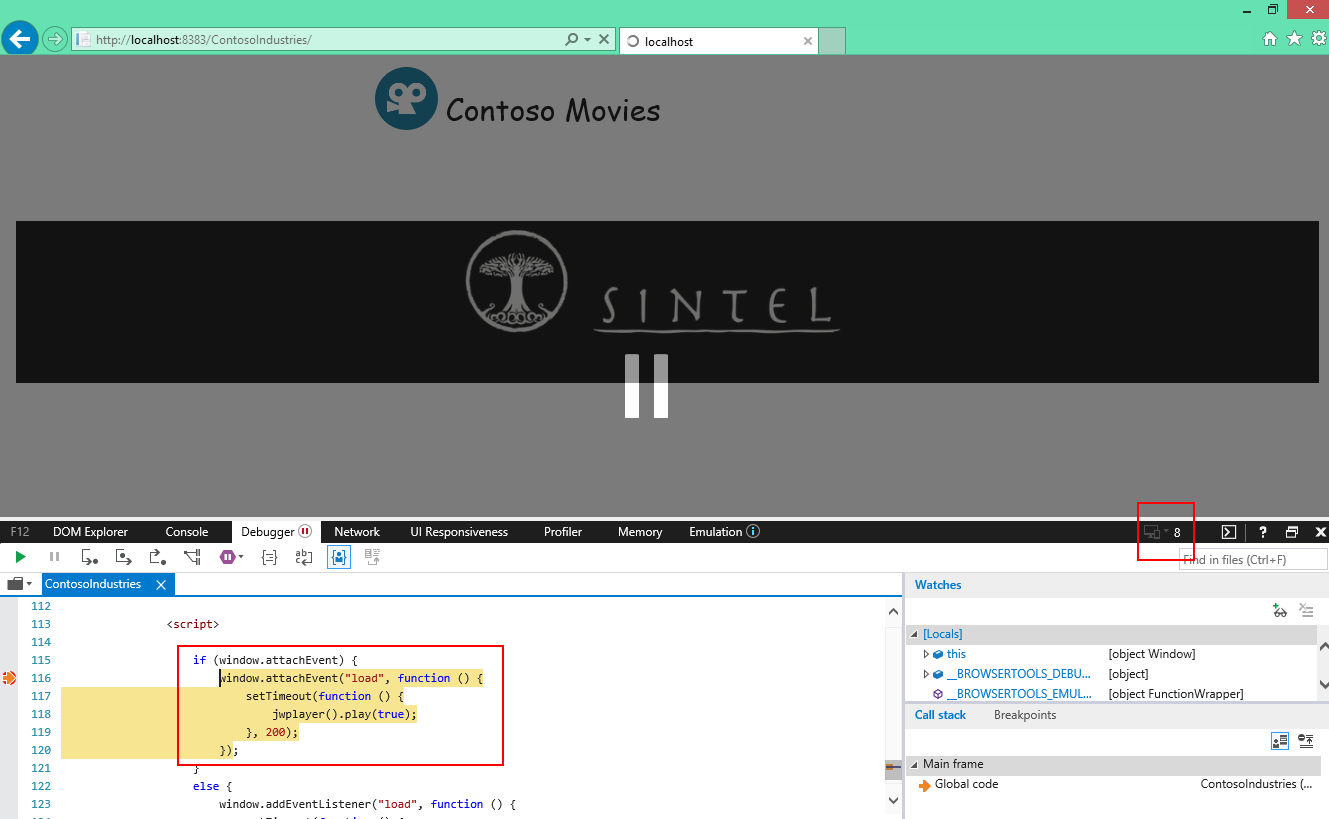
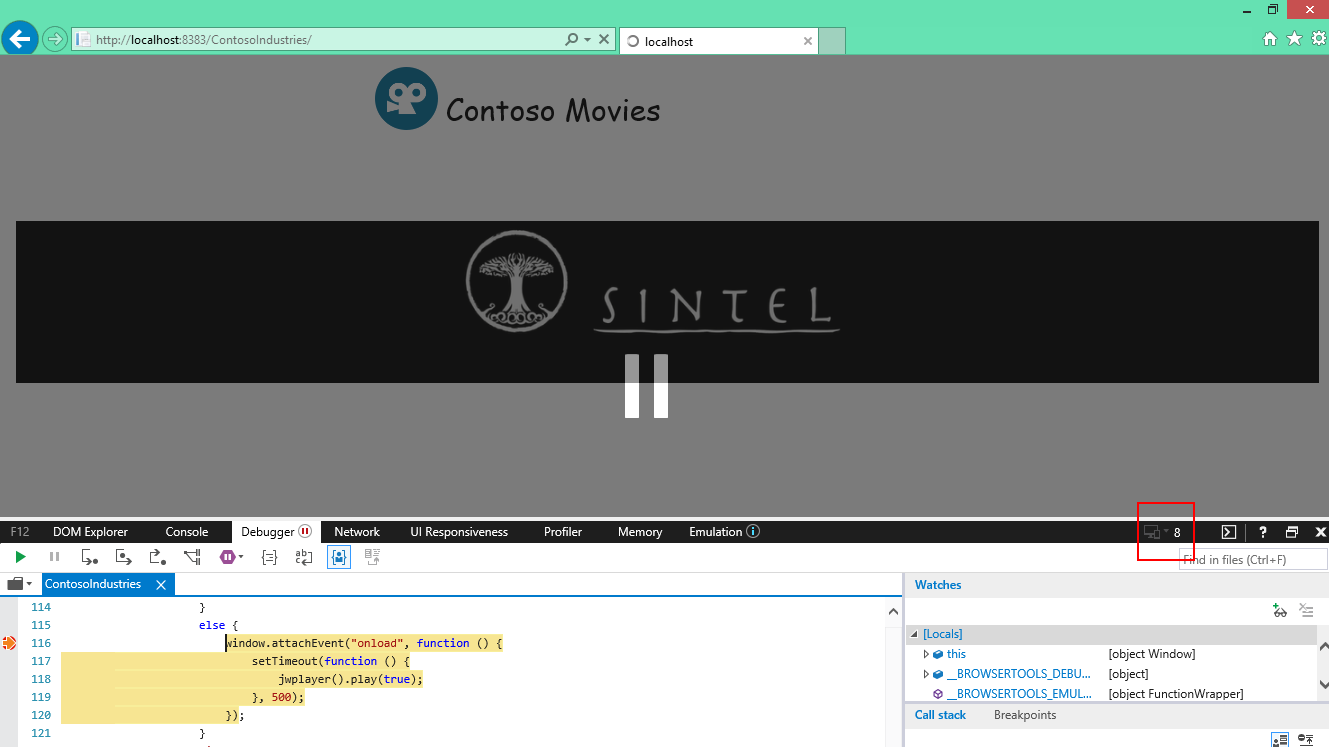
Revisão de texto e atualização da imagem de execução no ie9

Changed region(s): [[0.0, 0.6158, 1.0, 1.0], [0.0, 0.2463, 1.0, 0.5542], [0.0, 0.0, 1.0, 0.1847]]

diff --git a/update/code/end/ContosoIndustries/public_html/index.html b/update/code/end/ContosoIndustries/public_html/index.html
@@ -98,15 +98,15 @@
                 </div>
 
                 <script>
-                    if (window.attachEvent) {
-                        window.attachEvent("onload", function () {
+                    if (window.addEventListener) {
+                        window.addEventListener("load", function () {
                             setTimeout(function () {
                                 jwplayer().play(true);
                             }, 500);
                         });
                     }
                     else {
-                        window.addEventListener("load", function () {
+                        window.attachEvent("onload", function () {
                             setTimeout(function () {
                                 jwplayer().play(true);
                             }, 500);

diff --git a/update/README.md b/update/README.md
@@ -1,8 +1,8 @@
 Atualizando seu site e corrigindo problemas
 ===========================================
-Quando desenvolvemos para a Web Moderna, é inevitável que alguns recursos e propriedades que desejamos utilizar não funcionem em browsers antigos. Para contornar este problema, temos que adotar formas de atender a browsers antigos priorizando a funcionalidade. Neste caso importa para o usuário conseguir usar a funcionalidade.
+Quando desenvolvemos para a Web Moderna, é inevitável que alguns recursos e propriedades que desejamos utilizar não funcionem em browsers antigos. Para contornar este problema, temos que adotar formas de atender a esses browsers priorizando a funcionalidade. Neste caso importa para o usuário conseguir usar a funcionalidade.
 
-Neste contexto, existem algumas propriedades que você pode abrir mão e recursos que você pode substituir por outros que permitem ainda assim que seu site funcione. E a essa estratégia da-se o nome de *Graceful Degradation*. 
+Neste contexto, existem algumas propriedades que você pode abrir mão e recursos que você pode substituir por outros que permitem ainda assim que seu site funcione. E a essa estratégia dá-se o nome de *Graceful Degradation*. 
 
 Neste minicurso veremos como atualizar nosso site para suportar browsers antigos e ainda estar aderente a Web Moderna.
 
@@ -14,9 +14,11 @@ Este minicurso inclui:
 1. [Propriedades CSS3](#Task5)
 1. [Elementos HTML5](#Task6)
 
-Neste minicurso iremos usar ténicas vistas nos minicursos anteriores, como o de [Feature Detection](../feature-detection) e [Prefixos CSS](../css-prefix) para corrigir problemas que identificamos ao [testar nosso site em diferentes browsers](../testing).
+Neste minicurso iremos usar técnicas vistas nos minicursos anteriores, como o de [Feature Detection](../feature-detection) e [Prefixos CSS](../css-prefix) para corrigir problemas que identificamos ao [testar nosso site em diferentes browsers](../testing).
 
-Para esta tarefa iremos usar a Ferramenta do Desenvolvedor (F12) do Internet Explorer para emular versões anteriores do IE, como o IE8. Seguem os passos para isso:
+Para tanto, sugere-se baixar a máquina virtual contendo o Internet Explorer que iremos utilizar, no caso o IE8 (acessar site [https://dev.modern.ie/tools/vms/windows/](https://dev.modern.ie/tools/vms/windows/)). Para ver como, verifique novamente nosso minicurso [de como testar nosso site em diferentes browsers](../testing).
+
+Mas podemos também usar a Ferramenta do Desenvolvedor (F12) do Internet Explorer para emular versões anteriores do IE, como o IE8. Seguem os passos para isso:
 
 1. Abrir o projeto [Contoso Industries](code/begin) no **NetBeans**
 1. Executar o projeto e abrir a página inicial no Internet Explroer.
@@ -27,41 +29,37 @@ Para esta tarefa iremos usar a Ferramenta do Desenvolvedor (F12) do Internet Exp
 
 	_Mudando o Document Mode para IE8_
 
-1. O site será recarregado no emulando o IE8. 
+1. O site será recarregado pelo browser emulando o IE8. 
 
 	> Não feche a Ferramenta do Desenvolvedor. Ao fazê-lo, essa configuração será desfeita e o site volatrá a ser exibido no Document Mode padrão.
 
-Outra opção ainda é baixar uma máquina virtual Windows contendo o IE8. Para ver como, verifique novamente nosso minicurso [de como testar nosso site em diferentes browsers](../testing).
+> Nas versões mais recentes do IE11, mesmo usando emulação para IE8, alguns erros e limitações são contornados pelo browser, o que pode prejudicar nosso trabalho.
 
 <p name="Task1" />
 #### Recursos Javascript ####
 Primeiramente vamos procurar problemas relativos ao Javascript e HTML5 que não são suportados pelo IE8.
 
-Ao executarmos a página inicial, já iremos nos deparar com um primeiro problema de visualização no IE8: o uso do 
+Ao executarmos a página inicial, já iremos nos deparar com um primeiro problema de visualização no IE8: o uso da função `attachEvent`. 
 
-> A função attachEvent era usada para definir código a ser executado quando ocorrer um determinado evento. O attachEvent, tornou-se obsoleto e foi totalmente removido do IE11. Além disso ele não existe em nenhum dos browsers modernos, como Microsoft Edge e Google Chrome.  As you can see, the error surfaces now that the app is running in Edge.
-
-Após o passo 1, se executarmos nosso site iremos observar que ocorre um erro Javascript (visualizado através da ferramenta do desenvolvedor F12) relacionado com o uso da função `attachEvent`:
+> A função attachEvent era usada para definir código a ser executado quando ocorria um determinado evento. O attachEvent, tornou-se obsoleto e foi totalmente removido do IE11. Além disso ele não existe em nenhum dos browsers modernos, como Microsoft Edge e Google Chrome.  
 
 ![Erro usando função attachEvent](./images/update_attacheevent_error.png)
 
-> **Nota 1:** Nas versões mais recentes do IE11, mesmo usando emulação para IE8, esse erro é contornado pelo browser.
-
-> **Nota 2:** Esse é um exemplo clássico de problema Javascript quando estamos atualizando sites. A função `attachEvent` foi substituida pela função `addEventListener` nas novas versões do Javascript. Mas é muito comum encontrar o `attachEvent` nas páginas Web antigas ou que foram desenvolvidas para versões anteriores do Internet Explorer. Porém, se usamos um browser moderno ou a nova versão do IE11, o código Javascript simplesmente falha ao tentar executar a função `attachEvent`.
+> Esse é um exemplo clássico de problema Javascript quando estamos atualizando sites. A função `attachEvent` foi substituida pela função `addEventListener` nas novas versões do Javascript. Mas é muito comum encontrar o `attachEvent` nas páginas Web antigas ou que foram desenvolvidas para versões anteriores do Internet Explorer. Porém, se usamos um browser moderno ou a nova versão do IE11, o código Javascript simplesmente falha ao tentar executar a função `attachEvent`.
 
 Para corrigir, devemos alterar o código Javascript para verificar se a função `attachEvent` está disponível. Na página `index.html`, vamos alterar o código da tag script localizado no final da tag `div` com id `mainContent`:
 
 	````Javascript
 	<script>
-		if (window.attachEvent) {
-            window.attachEvent("onload", function () {
+		if (window.addEventListener) {
+            window.addEventListener("load", function () {
                 setTimeout(function () {
                     jwplayer().play(true);
                 }, 500);
             });
         }
         else {
-            window.addEventListener("load", function () {
+            window.attachEvent("onload", function () {
                 setTimeout(function () {
                     jwplayer().play(true);
                 }, 500);
